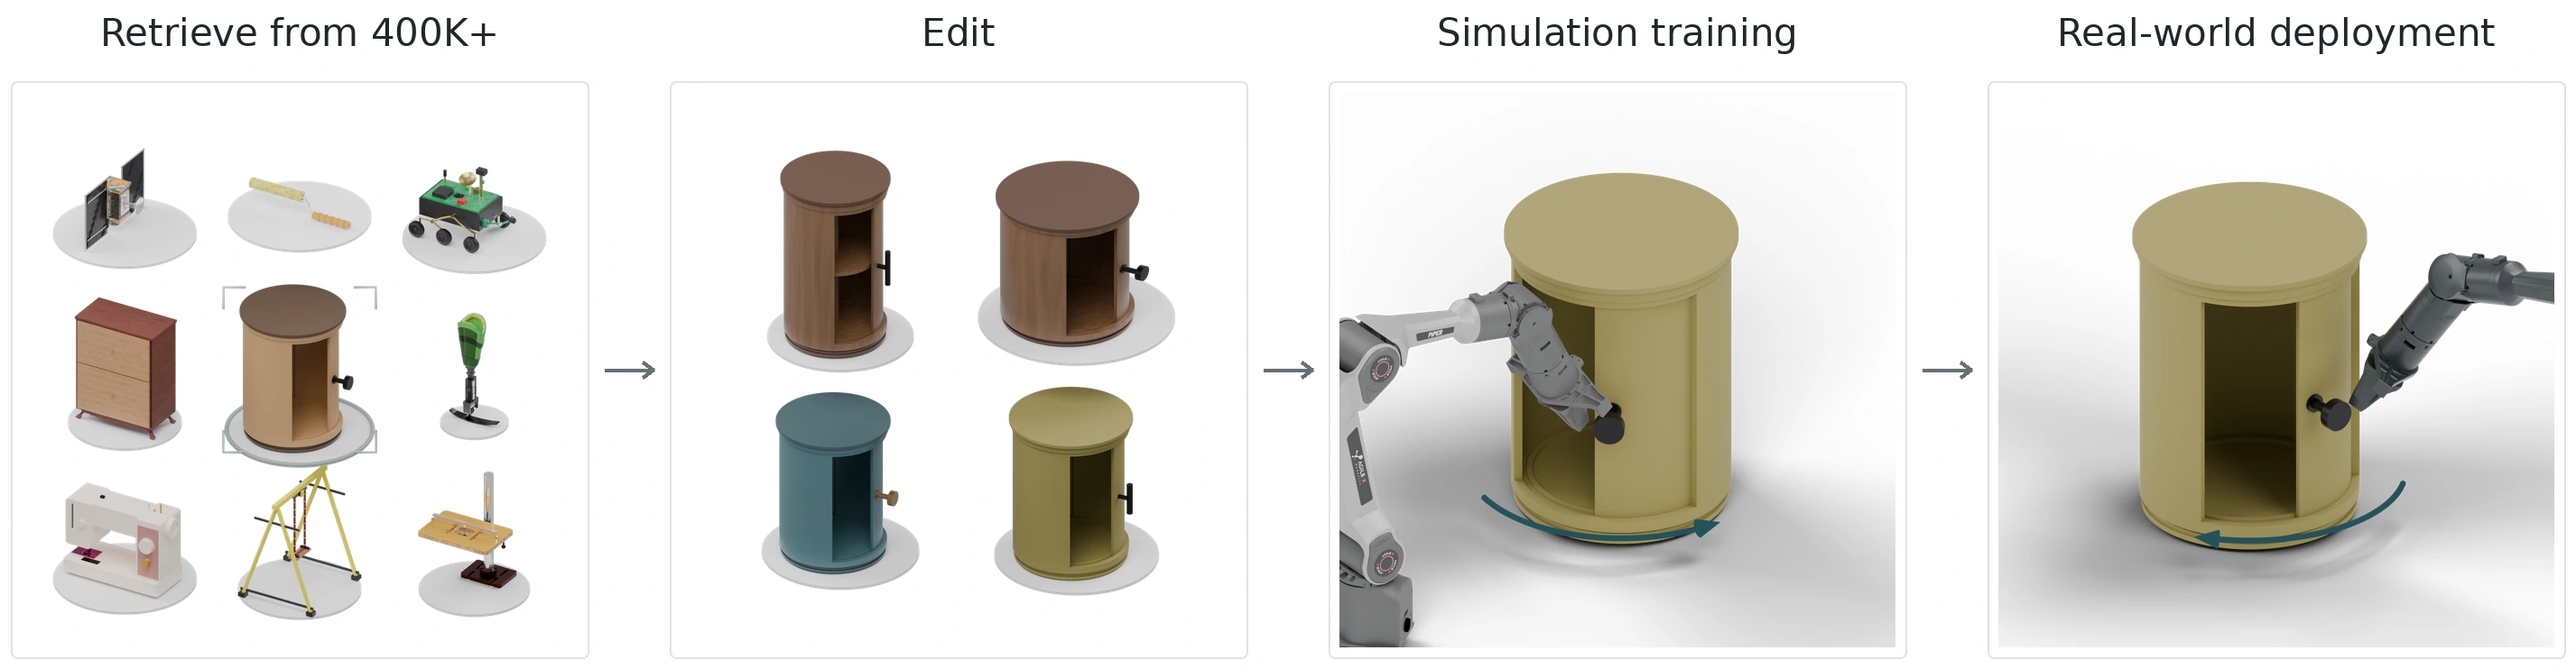
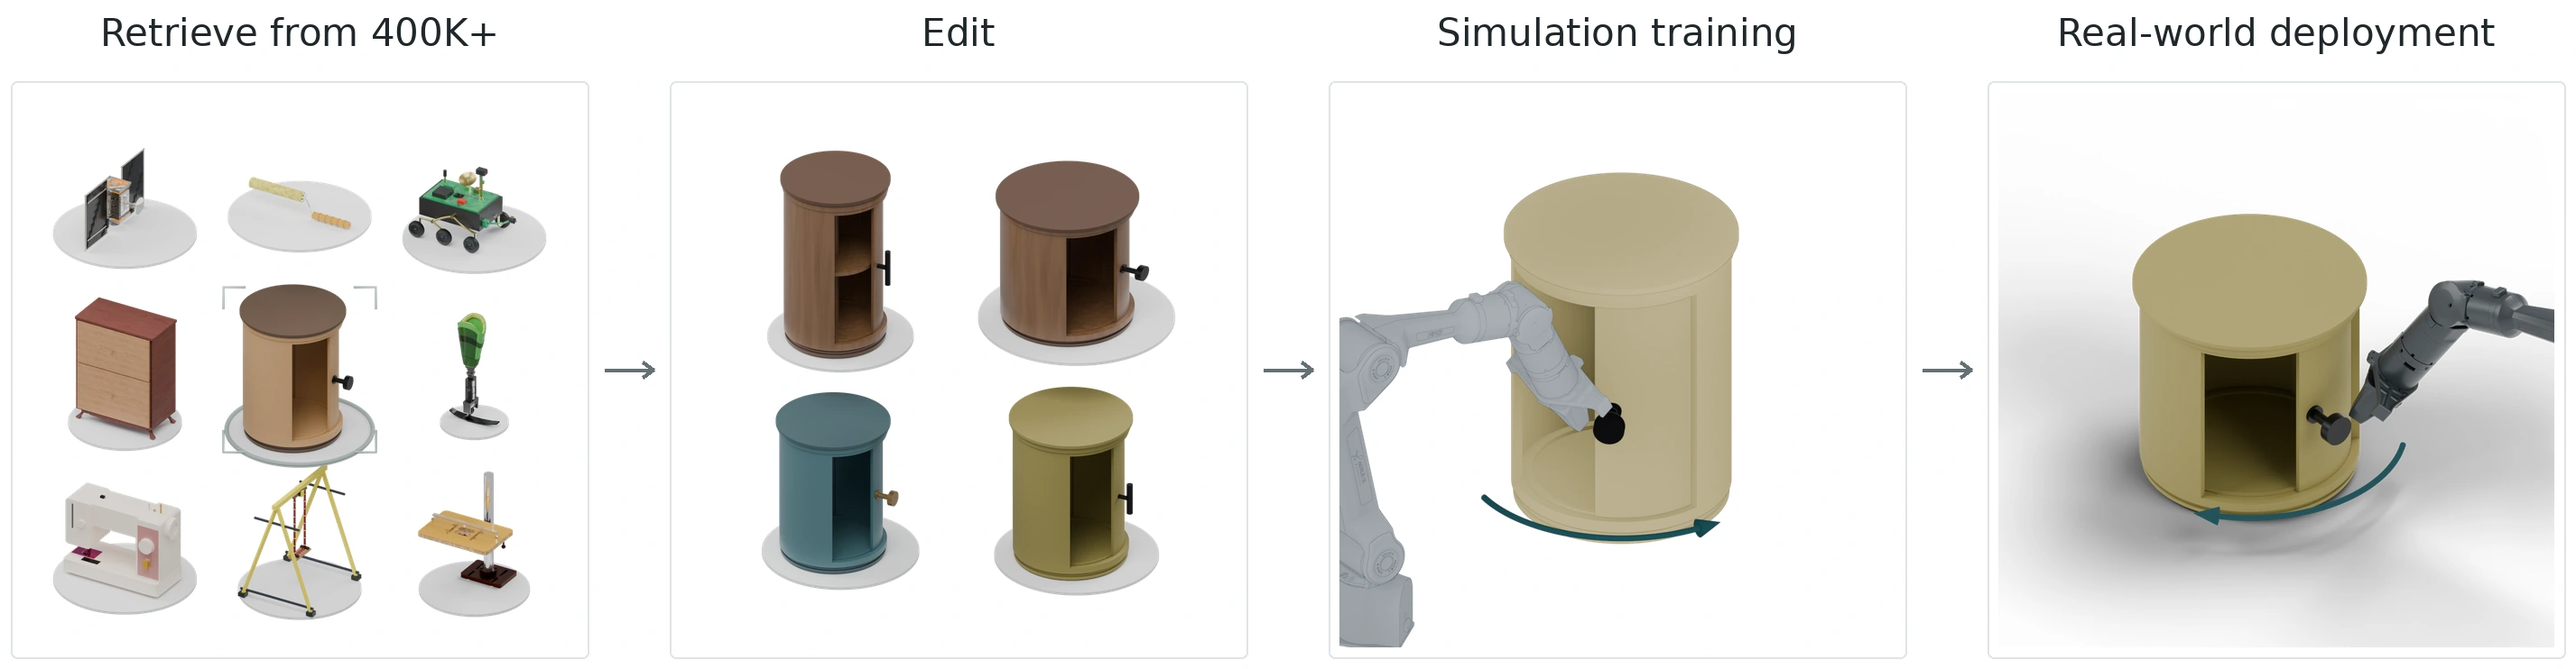
Differentiate technical simulation and shorter physical target illustration

diff --git a/index.html b/index.html
@@ -81,7 +81,7 @@
 <section class="section results-section" id="validation"><div class="wrap"><div class="section-heading"><div><h2>Physical validation</h2></div><p>Kinematic validity, simulator import, and stable rollouts.</p></div><div class="validation-cards"><article><span class="mono">KINEMATIC VALIDITY</span><strong>100.0<span>%</span></strong><p>Full-release assets passing the kinematic validity check.</p></article><article><span class="mono">SIMULATOR IMPORT</span><strong>100.0<span>%</span></strong><p>Core-200 assets imported across the evaluated simulators.</p></article><article><span class="mono">STABLE ROLLOUT</span><strong>99.5<span>%</span></strong><p>One-second stable rollouts on Core-200.</p></article></div><div class="benchmark" id="benchmark"><div class="benchmark-label"><h3>Results</h3><p>Dataset scale, asset quality, and articulation estimation. Select a column to sort.</p></div><div class="benchmark-toolbar"><div class="pill-tabs" role="tablist" aria-label="Result group"><button role="tab" aria-selected="true" data-result="scale">Dataset scale</button><button role="tab" aria-selected="false" data-result="validity">Asset quality</button><button role="tab" aria-selected="false" data-result="transfer">Articulation estimation</button></div><label id="split-control" hidden>Evaluation split <select id="split-select"><option value="ood">Category OOD</option><option value="in">In-domain</option></select></label></div><div class="table-scroll" tabindex="0" role="region" aria-label="Paper results table"><table id="results-table"></table></div><p class="table-note" id="results-note"></p></div><details class="qualitative"><summary>Qualitative results <span>＋</span></summary><img src="./media/articulation.webp" loading="lazy" alt="Qualitative comparison of PM-only, PM plus Articraft, PM plus RFW-A-400K and ground truth"/></details></div></section>
 <section class="section wrap robotics-section" id="sim2real" aria-labelledby="robotics-title">
  <div class="section-heading"><h2 id="robotics-title">Robotic manipulation</h2></div>
- <button class="robotics-flow" data-lightbox="media/robotics-flow.webp?v=cdb288316606" data-lightbox-mobile="media/robotics-flow-mobile.webp?v=224743e50dee" data-caption="Retrieve → optionally edit → train in simulation → deploy zero-shot. Rendered close-ups illustrate opening and closing; real-world trials are shown below." aria-label="Enlarge the robotic manipulation workflow"><picture><source media="(max-width: 760px)" srcset="./media/robotics-flow-mobile.webp?v=224743e50dee" width="1394" height="1612"/><img src="./media/robotics-flow.webp?v=cdb288316606" width="2854" height="742" loading="lazy" alt="Retrieve a half-open round cabinet from a diverse 400K+ pool; edit proportions, handles, interior and materials, with two matching wood finishes. Close-ups show a Piper arm opening an edited cabinet in simulation and closing the yellow target in a deployment schematic. All four panels are rendered illustrations."/></picture><span aria-hidden="true">Enlarge ↗</span></button>
+ <button class="robotics-flow" data-lightbox="media/robotics-flow.webp?v=57425df6c077" data-lightbox-mobile="media/robotics-flow-mobile.webp?v=4be6e7fb2b12" data-caption="Retrieve → optionally edit → train in simulation → deploy zero-shot. Rendered close-ups illustrate opening and closing; real-world trials are shown below." aria-label="Enlarge the robotic manipulation workflow"><picture><source media="(max-width: 760px)" srcset="./media/robotics-flow-mobile.webp?v=4be6e7fb2b12" width="1394" height="1612"/><img src="./media/robotics-flow.webp?v=57425df6c077" width="2854" height="742" loading="lazy" alt="Retrieve a half-open round cabinet from a diverse 400K+ pool; edit proportions, handles, interior and materials, with two matching wood finishes. A technical simulation view shows a Piper arm opening the taller cabinet; a shaded deployment schematic shows the arm closing a shorter yellow target. All four panels are rendered illustrations."/></picture><span aria-hidden="true">Enlarge ↗</span></button>
  <div id="robotics-picker" class="robotics-picker" role="group" aria-label="Choose a manipulation task"></div>
  <div class="robotics-playback"><h3 id="robotics-selection" aria-live="polite">Cabinet</h3><div><button id="robotics-play" aria-controls="robotics-grid">Play videos</button><button id="robotics-replay" aria-controls="robotics-grid">Replay</button></div></div>
  <p id="task-description" class="robotics-description">Open the cabinet door with the left arm, then close it with the right arm.</p>

diff --git a/scripts/render_robotics_workflow.py b/scripts/render_robotics_workflow.py
@@ -52,6 +52,7 @@ def empty(name, parent=None, matrix=None):
 def material(name, color, metallic=0, roughness=.5):
     m = bpy.data.materials.new(name)
     m.use_nodes = True
+    m.diffuse_color = (*color[:3], 1)
     bs = m.node_tree.nodes.get('Principled BSDF')
     bs.inputs['Base Color'].default_value = (*color[:3], 1)
     bs.inputs['Metallic'].default_value = metallic
@@ -404,6 +405,11 @@ def robot_scene(deploy=False):
     audit['pose_frame'] = frame
     audit['visible_arm'] = active_side
     audit['motion_phase'] = 'closing' if deploy else 'opening'
+    height_scale = .72 if deploy else 1.0
+    source_xml = ET.parse(SOURCE / 'crown_molding/model.urdf').getroot()
+    knob_origin = source_xml.find("link[@name='curved_door']/visual[@name='knob_cap']/origin")
+    handle_height = vec(knob_origin.get('xyz'))[2]
+    arm_offset = .66 * handle_height * (height_scale - 1)
     graphite = material('Deployment hardware finish', (.025, .031, .035), .3, .37)
     for side, arm in p['arms'].items():
         joints = dict(zip(['joint' + str(i) for i in range(1, 7)], arm['joint_pos_rad']))
@@ -419,6 +425,9 @@ def robot_scene(deploy=False):
             links[name].matrix_world = Matrix.Translation(Vector(raw[:3])) @ Quaternion(raw[3:]).to_matrix().to_4x4()
             bpy.context.view_layer.update()
         audit['robot_pose_checks'][side] = checks
+        if deploy and side == active_side:
+            root.location.z += arm_offset
+            bpy.context.view_layer.update()
         for ob in meshes:
             # Only the working arm is needed in the close-up. The second arm's
             # recorded pose is still audited, but its idle gripper is hidden.
@@ -428,19 +437,36 @@ def robot_scene(deploy=False):
     root, meshes, _ = cabinet(q=p['joints']['round_cabinet_crown_molding']['body_to_door'])
     finish_cabinet(meshes, 'target')
     raw = p['mechanism_roots']['round_cabinet_crown_molding']
-    root.location, root.scale = raw[:3], (.66,) * 3
+    root.location, root.scale = raw[:3], (.66, .66, .66 * height_scale)
     root.rotation_mode = 'QUATERNION'
     root.rotation_quaternion = Quaternion(raw[3:])
+    bpy.context.view_layer.update()
+    if deploy:
+        for ob in meshes:
+            if ob.get('visual_name', '').startswith(('knob_', 'tbar_')):
+                # Lower hardware with the shortened body but retain its original
+                # dimensions, rather than squashing the round knob vertically.
+                matrix = ob.matrix_world.copy()
+                for j in range(3):
+                    matrix[2][j] /= height_scale
+                ob.matrix_world = matrix
+        bpy.context.view_layer.update()
     # Contact shadows ground the close-up, without a large table or legs that
-    # compete with the action. No source geometry or recorded pose is altered.
+    # compete with the action. The deployment height and active forearm offset
+    # are presentation changes, not a reconstruction of real experiment poses.
     bpy.ops.mesh.primitive_plane_add(size=200, location=(0, 0, .737))
     floor = bpy.context.object;floor.name = 'Contact shadow plane'
     floor.is_shadow_catcher = True;floor.data.materials.append(WHITE)
+    floor.hide_render = not deploy
     motion_arrow(raw[:3], opening=not deploy)
-    camera((-3.0, 2.0, 1.8) if deploy else (-3.0, -.9, 1.8), target=(.30, .025, .945), scale=.70)
+    camera((-3.0, 2.0, 2.5) if deploy else (-3.0, -.9, 1.8),
+           target=(.30, .025, .90 if deploy else .945), scale=.70)
     audit['illustration_only'] = True
     audit['cabinet_finish'] = 'target'
     audit['simulation_grid'] = False
+    audit['cabinet_height_scale'] = height_scale
+    audit['active_arm_presentation_translation_m'] = [0, 0, arm_offset]
+    audit['presentation_style'] = 'physical deployment schematic' if deploy else 'technical viewport'
     audit['robot_finish'] = 'graphite presentation finish' if deploy else 'original Collada materials'
     audit['target_material_source'] = '/opt/isaacsim/isaac_route/assets/articulated/generated/round_cabinet_crown_molding_appearance.usda'
 
@@ -448,7 +474,27 @@ def robot_scene(deploy=False):
 
 {'retrieve': retrieval, 'edit': edits, 'train': lambda: robot_scene(False), 'deploy': lambda: robot_scene(True)}[args.panel]()
 scene = bpy.context.scene
-scene.render.engine = 'CYCLES'
+scene.render.engine = 'BLENDER_WORKBENCH' if args.panel == 'train' else 'CYCLES'
+if args.panel == 'train':
+    shading = scene.display.shading
+    shading.light = 'FLAT'
+    # Match the yellow asset identity in a lighting-independent CAD display.
+    GOLD.diffuse_color = (.56, .47, .19, 1)
+    for obj in scene.objects:
+        if obj.type == 'MESH' and obj.get('link_name', '').startswith(('link', 'base_', 'gripper', 'flange')):
+            for mat in obj.data.materials:
+                mat.diffuse_color = (.30, .34, .38, 1)
+    shading.color_type = 'MATERIAL'
+    shading.show_shadows = False
+    shading.show_cavity = True
+    shading.cavity_type = 'WORLD'
+    shading.cavity_ridge_factor = 1.2
+    shading.cavity_valley_factor = 1.4
+    shading.curvature_ridge_factor = 1.2
+    shading.curvature_valley_factor = 1.0
+    shading.show_object_outline = True
+    shading.object_outline_color = (.06, .08, .09)
+    scene.display.render_aa = '32'
 scene.cycles.samples = 24 if args.preview else 128
 scene.cycles.use_denoising = True
 prefs = bpy.context.preferences.addons['cycles'].preferences
@@ -479,7 +525,7 @@ scene.view_settings.view_transform = 'AgX'
 scene.render.image_settings.file_format = 'PNG'
 scene.render.image_settings.color_mode = 'RGBA'
 scene.render.filepath = str(OUT / (args.panel + '.png'))
-audit['render'] = {'blender': bpy.app.version_string, 'samples': scene.cycles.samples, 'devices': [d.name for d in prefs.devices if d.use]}
+audit['render'] = {'blender': bpy.app.version_string, 'engine': scene.render.engine, 'samples': 32 if args.panel == 'train' else scene.cycles.samples, 'devices': ['OpenGL/EGL viewport'] if args.panel == 'train' else [d.name for d in prefs.devices if d.use]}
 (OUT / (args.panel + '.json')).write_text(json.dumps(audit, indent=2))
 bpy.ops.wm.save_as_mainfile(filepath=str(OUT / (args.panel + '.blend')))
 bpy.ops.render.render(write_still=True)

diff --git a/output/robotics-workflow/README.md b/output/robotics-workflow/README.md
@@ -20,19 +20,25 @@ version. Desktop and mobile WebP assets are composed from the same four panels.
    exposing the interior while remaining inside the original 102° door travel.
    The native T-bar dimensions are translated radially by 25 mm to match this
    cabinet. These are presentation edits, not new evaluated training samples.
-3. **Simulation training**: a close-up of the left Piper arm pushing the yellow
-   cabinet open. Pose and door state come from simulation frame 900. The cabinet
-   scale is 0.66, exactly as in `isaac_route/common/sim_asset.py`. An arc around
-   the real door axis shows the opening motion; there is no ground grid.
-4. **Real-world deployment**: a close-up of the right Piper arm pushing the yellow
-   target cabinet closed, with a reversed motion arrow and a graphite hardware
-   finish. It uses simulation frame 1800 as the pose for a deployment illustration;
-   it is not a recovered real-world robot pose, photograph, or real trial.
-   The actual real-world recordings remain immediately below the workflow.
+3. **Simulation training**: the taller cabinet is presented as a flat-lit CAD
+   viewport, with component contours and cavity shading. The original left Piper
+   pose and door angle come from simulation frame 900, with cabinet scale 0.66.
+   Workbench display colors preserve the yellow cabinet / light robot identity;
+   there is no floor grid or studio contact shadow. The motion arc still shows opening.
+4. **Real-world deployment**: the yellow target is 28% shorter while retaining
+   its radius and the original knob dimensions. The right Piper forearm uses the
+   frame-1800 simulation pose, translated downward by the change in handle height
+   (about 53 mm) so its contact remains aligned. A slightly higher camera, complete
+   PBR shading and contact shadows provide a physical deployment schematic.
+   Both robot panels use the same orthographic scale, preserving the visible size
+   difference rather than enlarging the shorter cabinet to fill the frame.
+   This is not a recovered real-world pose, photograph or real trial. Actual
+   real-world recordings remain immediately below the workflow.
 
 The two close-ups illustrate two phases of the same open/close task, not different
 training and deployment task definitions. Only the working arm is visible; its
-native pose and distal geometry are preserved and the idle arm is hidden. The
+source joint angles and distal geometry are preserved and the idle arm is hidden.
+The deployment forearm has the explicitly recorded presentation translation above. The
 deployment view also hides the base and two proximal links where they otherwise
 intrude at the bottom-right edge. The close framing gives the object and gripper
 most of the image area.
@@ -45,8 +51,8 @@ branch; it does not redefine all three experimental training conditions.
 - Cabinet: `/opt/isaacsim/sim_asset/round_cabinet/crown_molding/model.urdf`.
 - Handle: `/opt/isaacsim/sim_asset/round_cabinet/t_bar/model.py` and `model.urdf`.
 - Robot: `/opt/isaacsim/piper_official_isaac_asset_20260827/official_source/piper_with_gripper.urdf`;
-  original Collada geometry is imported intact; the simulation panel retains the
-  source robot materials and the deployment schematic uses a graphite finish.
+  original Collada geometry is imported intact; the simulation panel uses a flat light-gray viewport palette and the
+  deployment schematic uses a graphite finish.
 - Robot pose: `/opt/isaacsim/end/real_sim_fixed_camera_20261014/round_cabinet/round_cabinet_fixed_camera.jsonl`.
 - Dataset pool: existing native exports under `public/models/dataset/`, with their
   source provenance in `public/data/dataset.json`.
@@ -75,7 +81,9 @@ CUDA_VISIBLE_DEVICES=0 /tmp/blender-4.2.21-linux-x64/blender -b -t 8 \
 python scripts/compose_robotics_workflow.py
 ```
 
-Final renders use Cycles OptiX, 128 samples and denoising, at 1280 × 1280 per panel.
+Final panels are 1280 × 1280. Retrieval, edits and deployment use Cycles OptiX
+with 128 samples and denoising; the simulation panel uses Workbench with 32-sample
+antialiasing, flat illumination, material display colors and cavity contours.
 Temporary PNGs, Blender scenes and logs live in `/tmp/rfw-workflow`. Composition
 writes `public/media/robotics-flow.webp` (2854 × 742) and
 `public/media/robotics-flow-mobile.webp` (1394 × 1612). The mobile return arrow
@@ -91,5 +99,6 @@ The enlarged image viewer has no visible caption below the picture; accessible
 image descriptions remain available as alt text.
 
 The last two headings explicitly distinguish simulation training and real-world
-deployment. Both cabinets share the target yellow material; the robot finishes
-remain light in simulation and graphite in the deployment schematic.
+deployment. Both cabinets retain the target yellow material identity. The simulation panel
+uses a lighting-independent viewport display color, while the deployment schematic
+uses the original PBR shader. Robot finishes remain light versus graphite.
